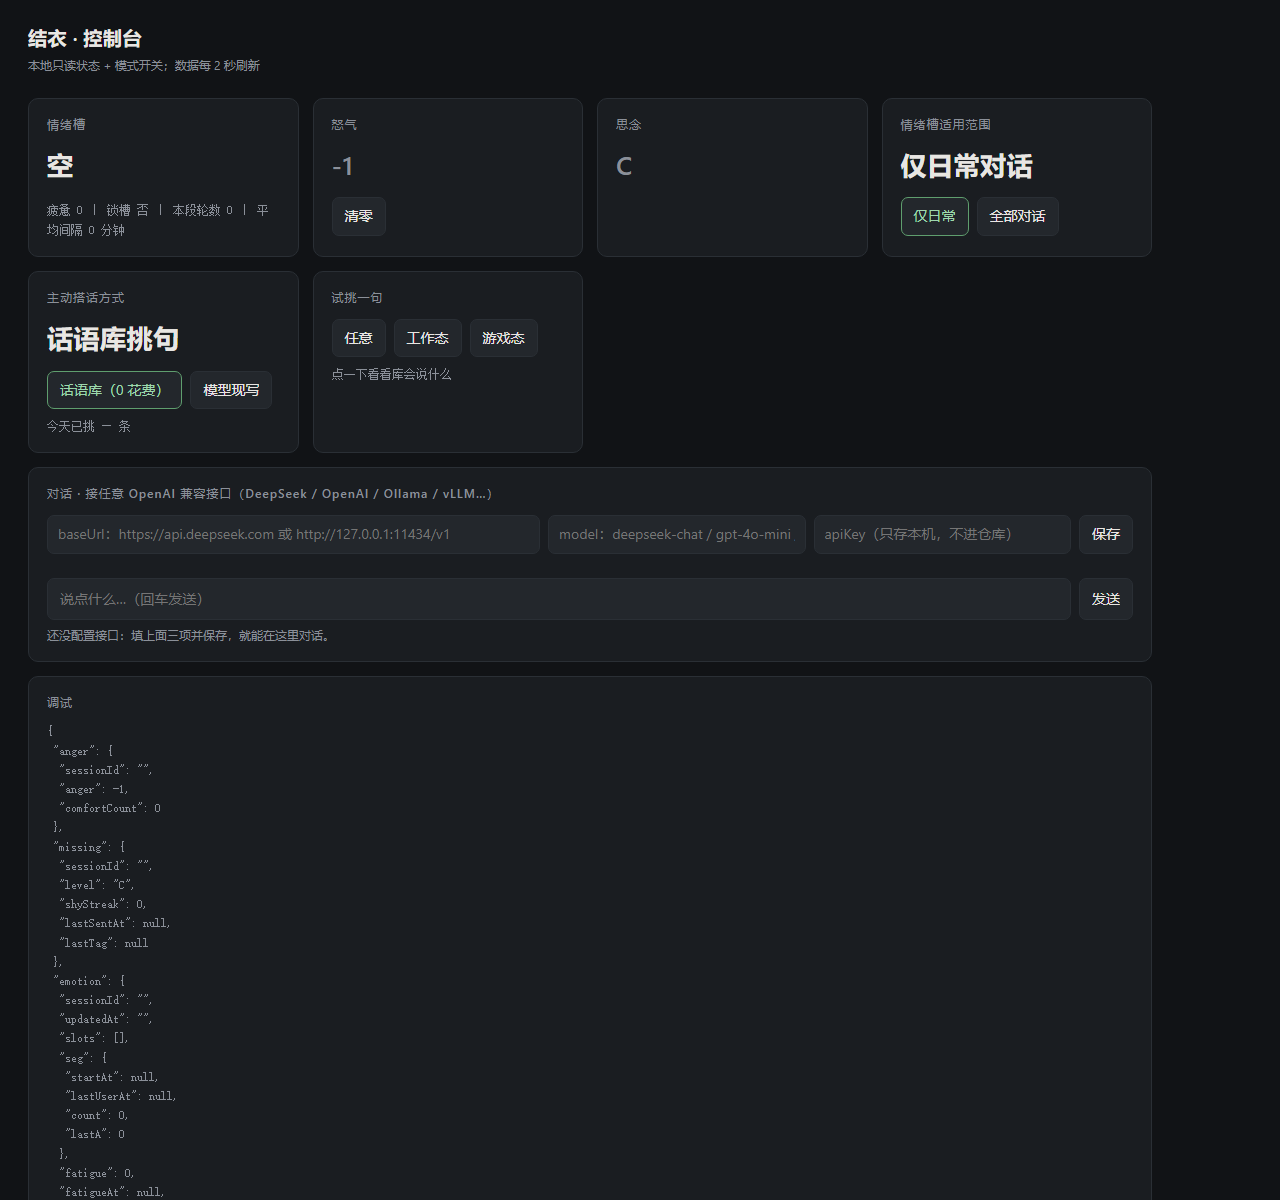
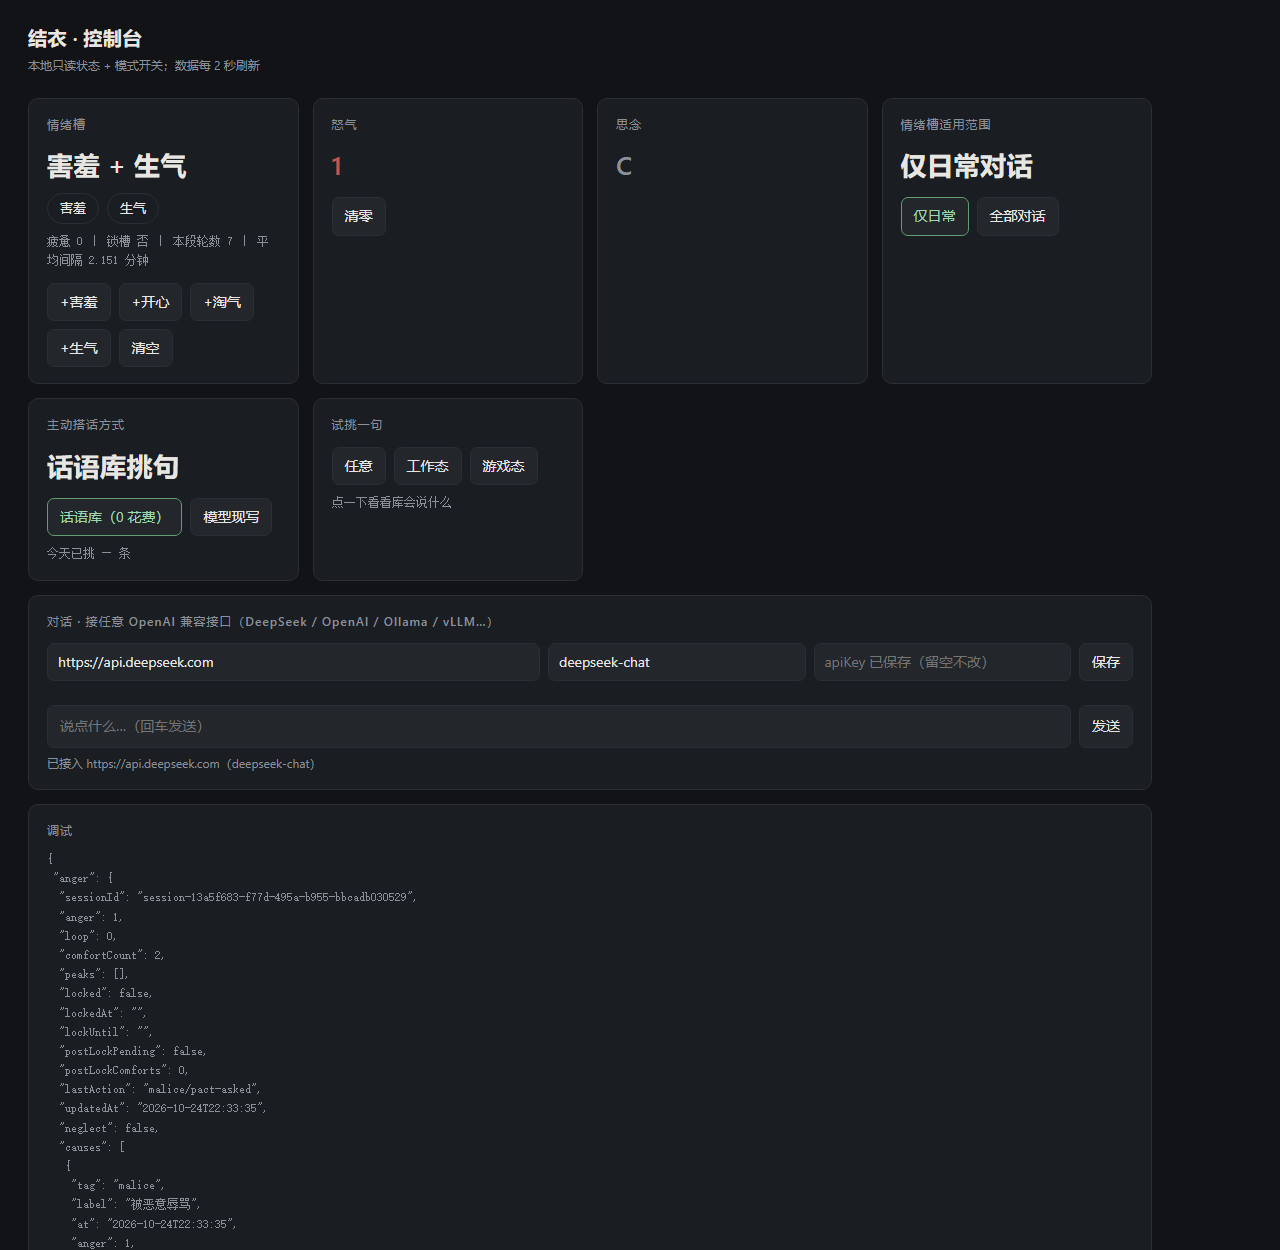
控制台默认读真实状态目录；新增加情绪/清空按钮与任务状态

diff --git a/app/public/index.html b/app/public/index.html
@@ -38,6 +38,13 @@
     <div class="big" id="slots">—</div>
     <div class="chips" id="slot-chips"></div>
     <pre id="emotion-raw"></pre>
+    <div class="row">
+      <button onclick="setEmo('害羞')">+害羞</button>
+      <button onclick="setEmo('开心')">+开心</button>
+      <button onclick="setEmo('淘气')">+淘气</button>
+      <button onclick="setEmo('生气')">+生气</button>
+      <button onclick="clearEmo()">清空</button>
+    </div>
   </section>
 
   <section class="card">
@@ -144,6 +151,8 @@ async function refresh() {
 async function setEmode(mode) { await fetch('/api/emotion-mode?mode=' + mode); refresh() }
 async function setSmode(mode) { await fetch('/api/sentinel-mode?mode=' + mode); refresh() }
 async function resetAnger() { await fetch('/api/anger-reset'); refresh() }
+async function setEmo(label) { await fetch('/api/emotion-set?label=' + encodeURIComponent(label)); refresh() }
+async function clearEmo() { await fetch('/api/emotion-clear'); refresh() }
 async function pick(fg) {
   $('pick-out').textContent = '挑选中…'
   const r = await (await fetch('/api/pick?fg=' + encodeURIComponent(fg))).json()
